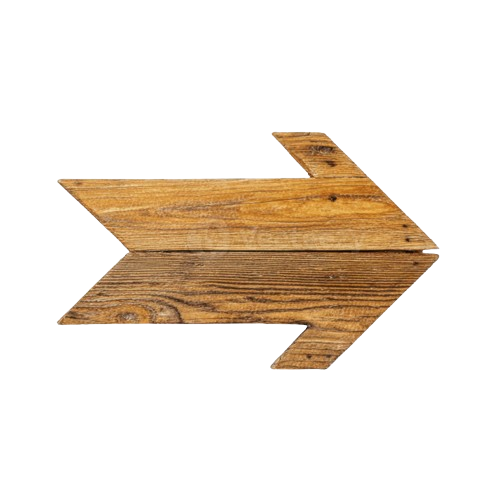
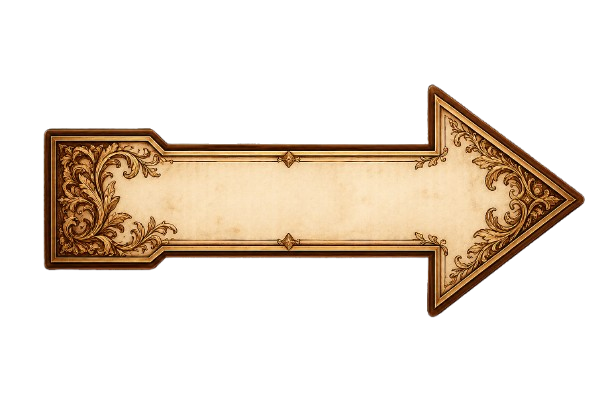
arrumar o js de jogos

Changed region(s): [[0.06, 0.2059, 0.96, 0.7941]]

diff --git a/pagina-jogos.html b/pagina-jogos.html
@@ -10,7 +10,7 @@
     <header>
         <a href="Pagina_inicial.html" >
             <button class="logo">
-                <img src="img/logo_site.png" alt="logo_site">
+                <img src="img/logo_site.png" alt="logo_site" id="logo">
             </button>
         </a>
 
@@ -18,13 +18,39 @@
 
     <div>
         <img src="img/menu_jogos.png" alt="" class="menu_jogo">
-        <img src="img/seta.png" alt="" class="seta">
 
-        <a href="qual-resultado.html" class="jogo">
-            <button>
-                <img src="img/imagem_jogo-dourada.png" alt="">
-            </button>
-        </a>
+        <script>
+        const dados = {
+            1: {
+                imagens: ["img/imagem_jogo-dourada.png","img/imagem_jogo-dourada.png","img/imagem_jogo-dourada.png"],
+                links: ["pagina1.html","pagina2.html","pagina3.html"],
+                i: 0
+            },
+            2: {
+                imagens: ["img/img2.png","img/img2b.png","img/img2c.png"],
+                links: ["qual-resultado.html","pagina5.html","pagina6.html"],
+                i: 0
+            }
+        };
+
+        function trocar(id){
+            const d = dados[id];
+
+            d.i = (d.i + 1) % d.imagens.length;
+
+            document.getElementById("img"+id).src = d.imagens[d.i];
+            document.getElementById("link"+id).href = d.links[d.i];
+        }
+        </script>
+
+
+        <button onclick="mudar_imagem()" class="botão">
+            <img id="seta" src="img/seta.png" width="300">
+
+        </button>
+
+
+        
     </div>
 
 

diff --git a/css/desing-jogos.css b/css/desing-jogos.css
@@ -11,8 +11,12 @@ body{
     border: none;
     background: transparent;
     cursor: pointer;
+}
 
-
+.botão{
+    border: none;
+    background: transparent;
+    cursor: pointer;
 }
 
 .logo img{
@@ -23,21 +27,23 @@ body{
     left: 1px;
 }
 
+
 .menu_jogo{
     width: 850px;
     height: auto;
 
     position: absolute;
     left: 225px;
+    
 }
 
-.seta{
-    width: 150px;
+#seta{
+    width: 70px;
     height: auto;
 
     position: absolute;
-    top: 220px;
-    left: 900px;
+    top: 470px;
+    left: 760px;
 }
 
 .jogo img{
@@ -47,4 +53,9 @@ body{
     position: absolute;
     top: 100px;
     left: 600px;
+}
+
+.Sumario{
+    position: absolute;
+    top: 1000px;
 }